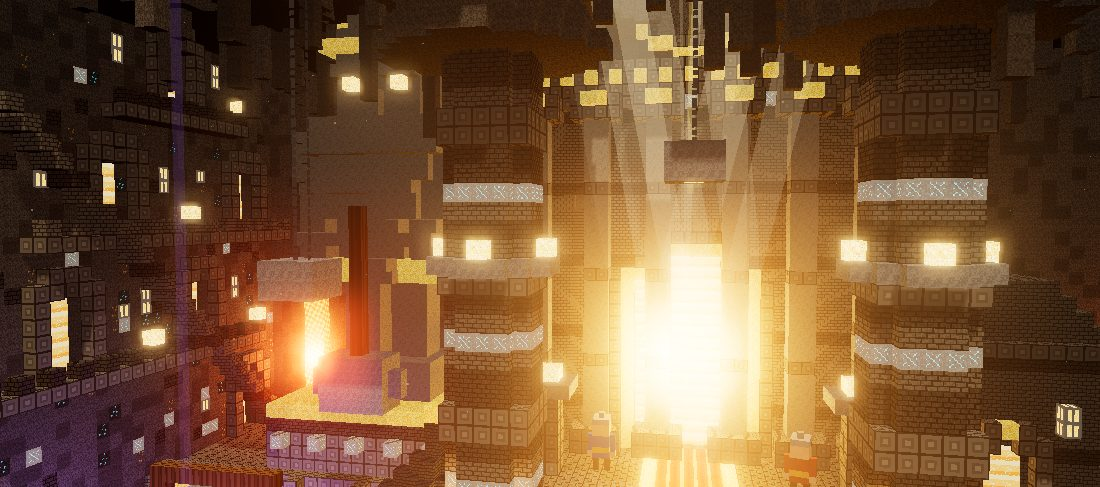
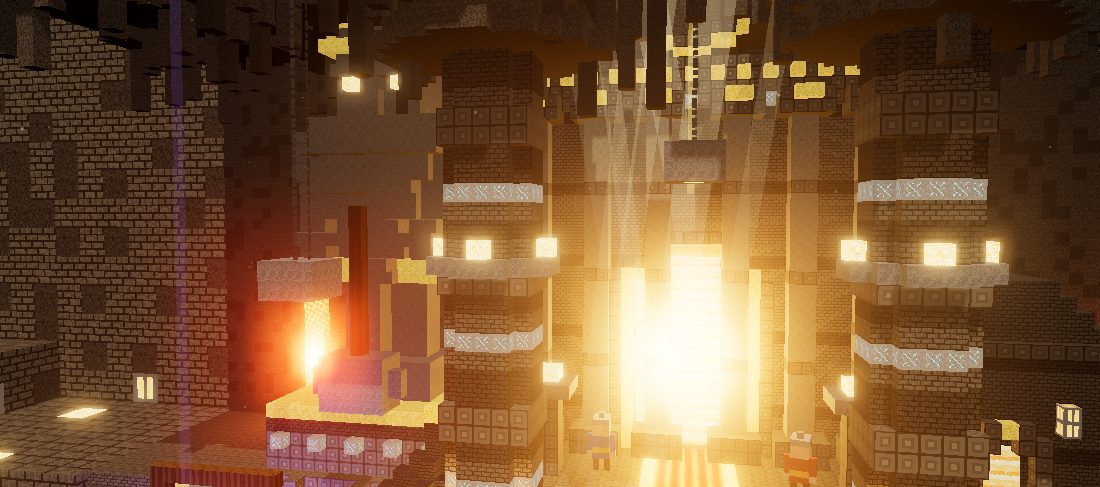
Horizont: Zwergenhöhle seitlich geöffnet und erweitert (keine Wand beim Drehen), Eiswelt mit Bergkranz und mehr Wolken
Claude-Session: https://claude.ai/code/session_01VyrGtGhpmUQ9uCwobRxi57

diff --git a/lernwelt/welten/stein.js b/lernwelt/welten/stein.js
@@ -54,7 +54,7 @@ export function build(A){
   const level = z => z>=44 ? L0 : z>=26 ? L1 : z>=10 ? L2 : TOP;
   for(let z=0; z<D; z++) for(let x=0; x<W; x++){
     let h = level(z); const sideD = Math.max(5-x, x-(W-6));
-    if(sideD>0 && z<OPEN) h = TOP; else if(sideD>0) h = Math.max(h, L0 + Math.round(fbm(x*.3,z*.3)*3));
+    if(sideD>0 && z>=OPEN) h = Math.max(h, L0 + Math.round(fbm(x*.3,z*.3)*3));
     if(z<10) h = TOP - Math.round(fbm(x*.1,1)*2);
     for(let y=0;y<h;y++){ let t = y===h-1 && h<=L2 ? "flag" : (h>=TOP && rand()<.03 ? pick(["goldOre","diaOre"]) : (rand()<.3 ? "deep" : "stone")); set(x,y,z,t); } }
   // Stützmauern der Terrassen mit Zierbändern
@@ -144,13 +144,6 @@ export function build(A){
     for(const [lx,lz] of [[x-6,z+9],[x+6,z-10],[x+10,z+6]]){ fill(lx,y,lz,lx,y+4,lz,"log"); set(lx,y+5,lz,"glow"); }
     S.country.top=[x,y+12,z]; S.country.base=y+4; S.country.cam={dist:36, up:.42, side:-.15}; }
 
-  // ---------- Häuser in den Seitenwänden, Balkone, Laternen ----------
-  for(const [sx,dir] of [[4,1],[W-5,-1]]) for(const [yy,zz] of [[L2,14],[L2+9,20],[L2+9,32],[L2+18,14],[L2+18,28],[L1,20],[L2+27,22]]){
-    if(sx===4 && zz>28 && zz<42 && yy<L2+5) continue;
-    archX(sx,yy,zz,3,4,dir); for(const o of [-5,5]){ set(sx,yy+3,zz+o,"win"); set(sx,yy+4,zz+o,"win"); }
-    if(yy>L2){ for(let o=-6;o<=6;o++){ set(sx+dir,yy-1,zz+o,"chisel"); set(sx+2*dir,yy-1,zz+o,"chisel"); if(o%2===0) set(sx+2*dir,yy,zz+o,"sbrick"); } set(sx+2*dir,yy+1,zz-6,"glow"); } }
-  // Treppen an den Seitenwänden hinauf
-  for(const [sx,dir] of [[6,1],[W-7,-1]]) for(let i=0;i<30;i++){ const yy=L2+i, zz=12+i; if(zz>=OPEN-2) break; set(sx,yy,zz,"sbrick"); set(sx+dir,yy,zz,"sbrick"); }
   // Häuser auf der oberen Terrasse rechts
   { const hx=64, hz=15, y=L2; fill(hx-6,y,hz-4,hx+6,y+9,hz+3,"sbrick"); fill(hx-7,y+10,hz-5,hx+7,y+10,hz+4,"chisel"); for(let i=0;i<4;i++) fill(hx-6+i,y+11+i,hz-4,hx+6-i,y+11+i,hz+3,"sbrick");
     archZ(hx,y,hz+4,3,3); for(const a of [-4,4]){ set(hx+a,y+5,hz+4,"win"); set(hx+a,y+6,hz+4,"win"); } }
@@ -259,10 +252,16 @@ export function build(A){
     if(z>4 && rand()<.035){ const len=2+Math.floor(rand()*6); for(let k=1;k<=len;k++){ set(x,yy-k,z,"stone"); if(k<len-2 && len>4){ set(x+1,yy-k,z,"stone"); } } } }
   // ---------- Weitere Höhlen links und rechts bis in die Ferne: Terrassen, beleuchtete Häuser ----------
   const away = x => Math.max(0,-x, x-W);
-  const fh = (x,z) => { const a=away(x); let h = L0 + Math.floor(a/18)*7 + fbm(x*.05,z*.05)*3; if(a>70) h += (a-70)*1.4; if(z<OPEN) h = 80; return h; };
-  A.farTerrain({ x0:-150, x1:W+150, z0:OPEN-6, z1:D+50, base:0, skip:(x,z)=> x>-1 && x<W+1,
+  const fh = (x,z) => { const a=away(x); let h = level(Math.max(z,10)) + Math.floor(a/22)*6 + fbm(x*.05,z*.05)*3; if(a>90) h += (a-90)*1.6; if(z<10) h = 80; return Math.min(h,80); };
+  A.farTerrain({ x0:-170, x1:W+170, z0:-12, z1:D+50, base:0, skip:(x,z)=> x>-1 && x<W+1,
     h: fh, top:(x,z,y,hc)=> y*3 > 60 ? "stone" : (rand()<.04 ? "glow" : "flag"),
     fill:(x,z,y,hc)=> (y%2===1 && y*3<26 && rand()<.14) ? "win" : (rand()<.25 ? "deep" : "sbrick") });
+  // große Höhlendecke über der ganzen erweiterten Halle, mit Tropfsteinen
+  for(let cz=-4; cz<Math.ceil((OPEN+40)/3); cz++) for(let cx=Math.floor(-170/3); cx<Math.ceil((W+170)/3); cx++){ const x=cx*3, z=cz*3; if(x>-3 && x<W+3 && z<OPEN+2) continue;
+    const cy = Math.round((TOP+34+fbm(x*.02,z*.02)*10 + Math.max(0,z-OPEN)*.3)/3); F.set(cx,cy,cz,"stone"); F.set(cx,cy+1,cz,"deep");
+    if(rand()<.05){ const l=1+Math.floor(rand()*4); for(let k=1;k<=l;k++) F.set(cx,cy-k,cz,"deep"); } }
+  // Laternen und Lichter in den Seitenhöhlen
+  for(let i=0;i<80;i++){ const x = rand()<.5 ? -10-rand()*140 : W+10+rand()*140, z = 12+rand()*(D+20); const h=fh(x,z); if(h>60) continue; F.set(Math.floor(x/3),Math.ceil(h/3),Math.floor(z/3),"glow"); }
   for(let i=0;i<40;i++){ const x = rand()<.5 ? -20-rand()*120 : W+20+rand()*120, z = OPEN+rand()*(D-OPEN+40); const cx=Math.floor(x/3), cz=Math.floor(z/3), base=Math.ceil(fh(x,z)/3);
     const hh = 2+Math.floor(rand()*5); for(let k=0;k<hh;k++) F.set(cx,base+k,cz,"stone"); }
 

diff --git a/lernwelt/welten/eis.js b/lernwelt/welten/eis.js
@@ -204,9 +204,12 @@ export function build(A){
   // ---------- Landschaft bis zum Horizont: See links hinten, verschneite Berge ----------
   const Fr = A.far; Fr.cell = 3;
   const peaks = [[-110,-190,80,80],[-40,-220,90,95],[30,-240,80,85],[-180,-120,60,60],[150,-230,70,70],[220,-160,50,45],[-70,-150,50,50],[90,-260,70,75]];
+  // Bergkranz rundherum (links, rechts, hinten), damit man beim Drehen überall Berge sieht
+  for(let i=0;i<22;i++){ const an = Math.PI*(.05 + i/21*.9), R = 230 + (i%3)*35; peaks.push([W/2 - Math.cos(an)*R*1.15, D/2 - Math.sin(an)*R*.9 + 40, 70+(i*37)%40, 85+(i*53)%70]); }
+  for(const [px,pz,r,h] of [[-200,80,70,90],[-230,170,80,100],[W+200,70,70,95],[W+230,170,80,105],[-150,240,60,70],[W+150,250,60,75]]) peaks.push([px,pz,r,h]);
   const fh = (x,z) => { let h = G + (fbm(x*.03,z*.03)-.5)*6 + (x>62 && z>52 ? 1.5+fbm(x*.05,z*.05)*3 : 0);
     for(const [px,pz,r,hh] of peaks){ const d=Math.hypot(x-px,z-pz)/r; if(d<1){ const v = hh*Math.pow(1-d,1.35)*(.75+.5*fbm(x*.05,z*.05)); if(v>h) h=v; } } return h; };
-  A.farTerrain({ x0:-260, x1:W+220, z0:-260, z1:D+60, base:0, skip:(x,z)=> (x>-15 && x<W+15 && z>-15 && z<D+15) || (lakeB(x,z)<1.3 && x<44),
+  A.farTerrain({ x0:-330, x1:W+330, z0:-320, z1:D+260, base:0, skip:(x,z)=> (x>-15 && x<W+15 && z>-15 && z<D+15) || (lakeB(x,z)<1.3 && x<44),
     h: fh, top:(x,z,y,hc)=> y*3 > 30 ? "snowB" : (rand()<.3 ? "rock" : "snowB"), fill:(x,z,y,hc)=> y*3 > 46 ? (rand()<.7?"snowB":"frost") : (rand()<.5 ? "rock" : "frost") });
 
   // ferne verschneite Nadelbäume in der Ebene (grobe Blöcke)
@@ -239,7 +242,8 @@ export function build(A){
     planes:[{y:L-.08, tex:T.lake, repeat:220, size:900, em:.25, anim:[.004,.002]}],
     beams:[{pos:[CX,HB+60,CZ-1], len:90, w:7, color:0x9AE8FF, opacity:.22, tilt:.4, speed:.15}],
     ribbons:[{w:320, h:30, pos:[20,120,-150], rot:.1, color:0x9A8AFF, opacity:.16}, {w:240, h:22, pos:[-20,132,-170], rot:.3, color:0x7AD8FF, opacity:.14}],
-    clouds:[{pos:[-40,110,-120], r:20, n:44, sx:1.8, sy:.6, sz:1.1, drift:.4}, {pos:[100,120,-140], r:24, n:48, sx:1.9, sy:.6, sz:1.1, drift:.3},
+    clouds:[...[[-220,90,40],[-240,110,160],[W+220,95,40],[W+240,115,160],[-150,130,-60],[W+150,130,-60],[-60,150,-250],[180,150,-250]].map(p=>({pos:p, r:26, n:42, sx:1.9, sy:.55, sz:1.2, drift:.3})),
+            {pos:[-40,110,-120], r:20, n:44, sx:1.8, sy:.6, sz:1.1, drift:.4}, {pos:[100,120,-140], r:24, n:48, sx:1.9, sy:.6, sz:1.1, drift:.3},
             {pos:[40,140,-200], r:28, n:40, sx:2, sy:.5, sz:1}, {pos:[170,100,-60], r:18, n:36, sx:1.7, sy:.6, sz:1, drift:.5}],
     particles:[{n:1700, area:[-40,W+40,0,90,-40,D+60], vy:-2.6, wob:2.2, color:0xFFFFFF, size:.8, opacity:.95, soft:true},
                {n:500, area:[-160,W+160,0,120,-200,-40], vy:-3, wob:2.5, color:0xFFFFFF, size:1.1, opacity:.8, soft:true}],

diff --git a/englisch/welt.html b/englisch/welt.html
@@ -224,7 +224,7 @@ async function main(){
     const mod = await import(`../lernwelt/welten/${WI.file}.js`);
     const { start } = await import("../lernwelt/welt3d.js");
     let ui = null;
-    W3 = await start({ seed:K*101, canvasHost:$("#stage"), labelHost:$("#labels"), names, counts, icons, lite: new URLSearchParams(location.search).has("lite"), still: new URLSearchParams(location.search).has("still"), stillTime: +new URLSearchParams(location.search).get("tt") || undefined, banner: new URLSearchParams(location.search).has("banner"), noFly: new URLSearchParams(location.search).has("nofly"),
+    W3 = await start({ seed:K*101, canvasHost:$("#stage"), labelHost:$("#labels"), names, counts, icons, lite: new URLSearchParams(location.search).has("lite"), still: new URLSearchParams(location.search).has("still"), stillTime: +new URLSearchParams(location.search).get("tt") || undefined, banner: new URLSearchParams(location.search).has("banner"), noFly: new URLSearchParams(location.search).has("nofly"), orbit: +new URLSearchParams(location.search).get("orbit") || 0,
       build: api => { const w = mod.build(api); ui = w.ui; spotsInfo = w.spots; return w; }, onSelect: k => openArea(k) });
     if(ui) for(const k in ui) document.documentElement.style.setProperty("--ui-"+k, ui[k]);
     window.__blocks = W3.count;

diff --git a/lernwelt/welt3d.js b/lernwelt/welt3d.js
@@ -305,7 +305,7 @@ export async function start(o){
   function goHome(){ orbitT = 0; focus = null; for(const j in labels) labels[j].el.classList.remove("hide"); fly(homeFor().pos, homeFor().look); }
 
   // Umlaufbahn: mit dem Finger nach links/rechts wischen dreht die Kamera um den Blickpunkt (höchstens 90° je Seite, nur waagrecht)
-  let orbitA = 0, orbitT = 0, dragging = false, dragX = 0, dragId = null;
+  let orbitA = (o.orbit||0)*Math.PI/180, orbitT = orbitA, dragging = false, dragX = 0, dragId = null;
   const el = renderer.domElement; el.style.touchAction = "none";
   el.addEventListener("pointerdown", e => { dragging = true; dragX = e.clientX; dragId = e.pointerId; try{ el.setPointerCapture(e.pointerId); }catch(_){} });
   el.addEventListener("pointermove", e => { if(!dragging || e.pointerId!==dragId) return; const d = e.clientX - dragX; dragX = e.clientX;
